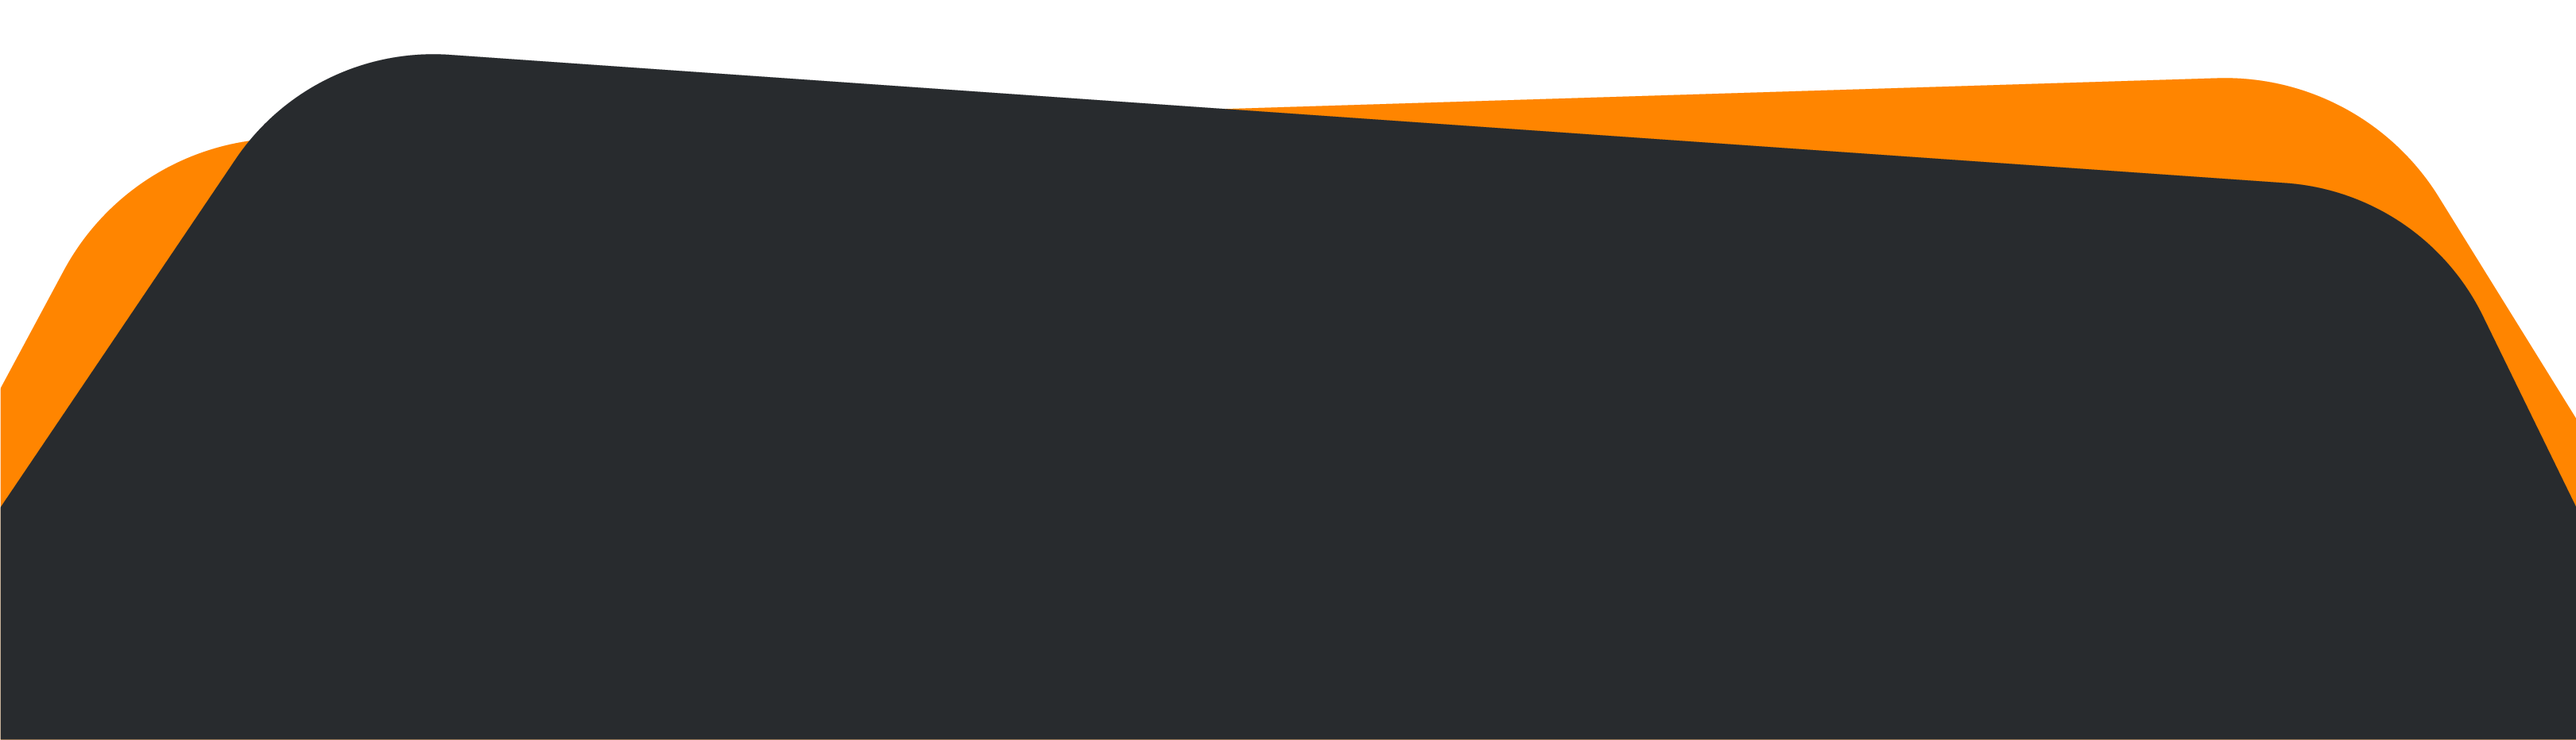
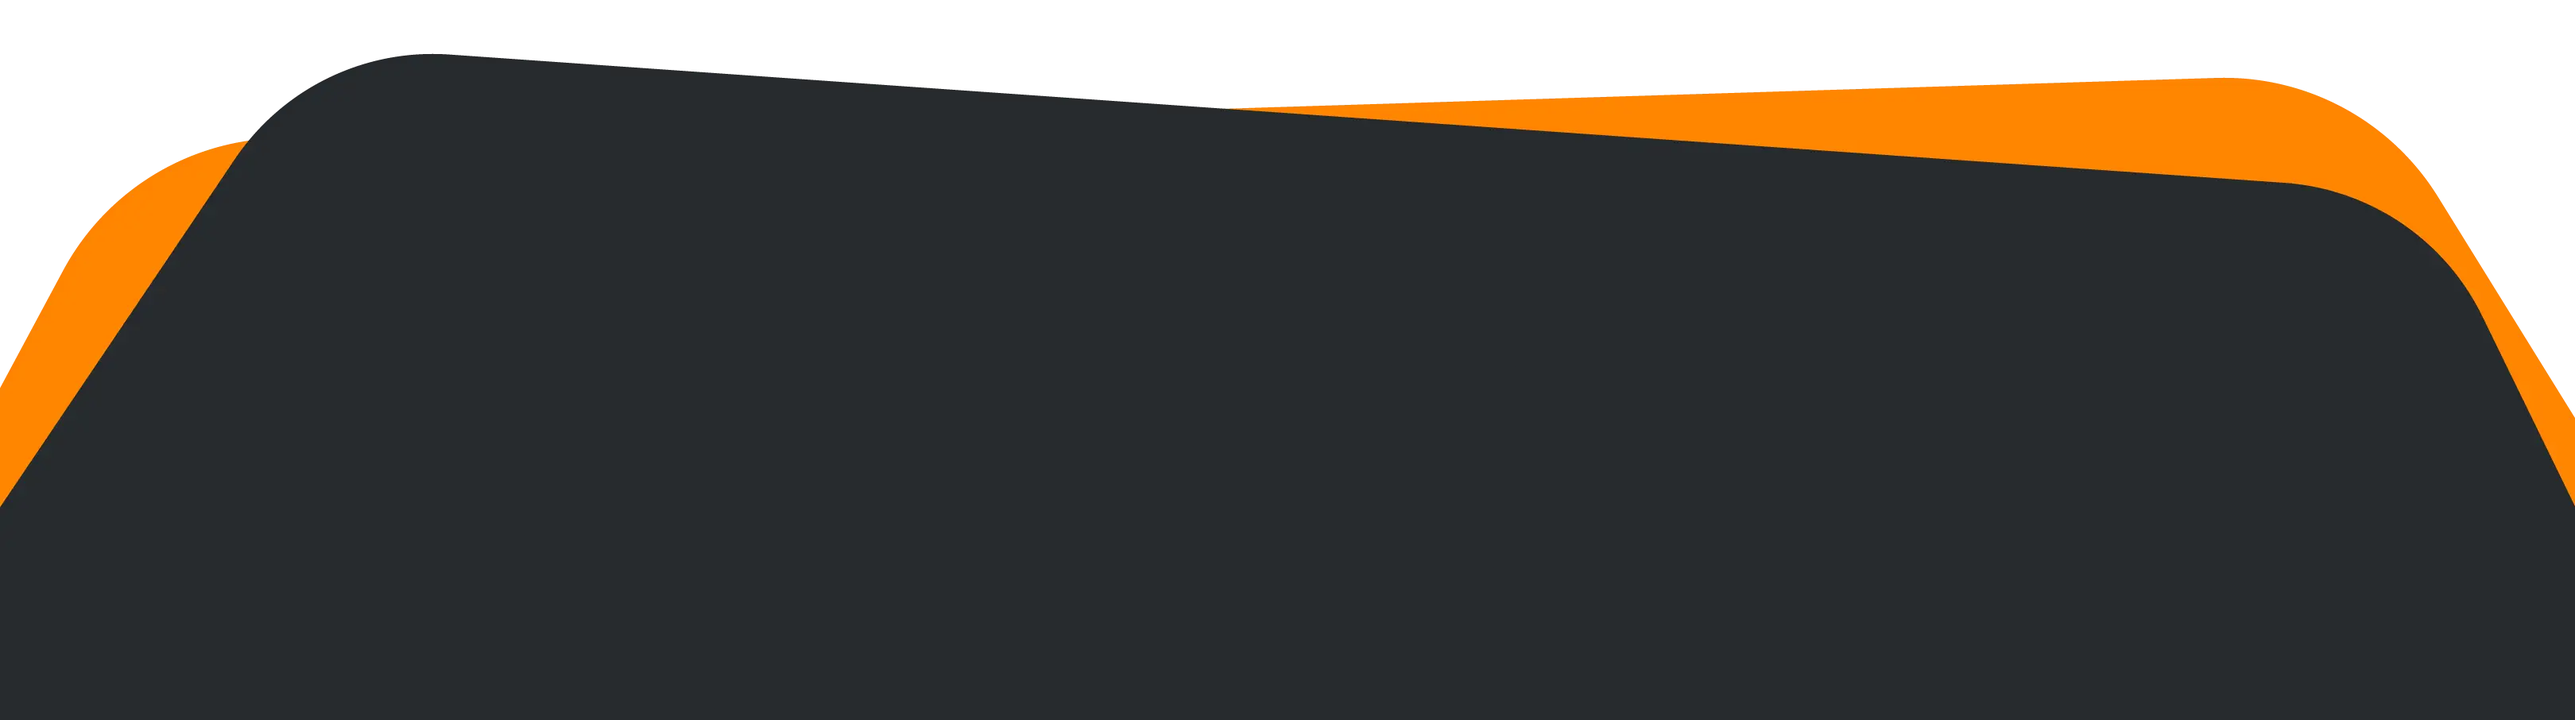
Se agregan estilos

diff --git a/styles/main.css b/styles/main.css
@@ -21,6 +21,16 @@ body {
 	border-radius: 8px;
 }
 
+.separator{
+  content: '';
+  width: 100%;
+  height: 1px;
+
+  margin: 1rem 0;
+  
+  background: var(--color-orange);
+}
+
 /* Inicio de estilos para el header */
 
 /* -------------------------------- */
@@ -61,6 +71,11 @@ body {
 	font-weight: 600;
 	text-align: center;
 	cursor: pointer;
+  transition: all 0.3s ease-in-out;
+}
+
+.header .topbar .topbar__button:hover{
+  opacity: .6;
 }
 
 /* -------------------------------- */
@@ -313,6 +328,7 @@ body {
 	border-radius: 12px;
 	padding: 8px 24px;
 
+  cursor: pointer;
 	transition: all 0.3s ease-in-out;
 }
 
@@ -359,11 +375,12 @@ body {
 	position: relative;
 
 	width: 100%;
-	height: 750px;
+	height: fit-content;
 
 	display: flex;
 	justify-content: center;
   
+  margin: 10rem 0;
 }
 
 .partner::before {
@@ -419,7 +436,7 @@ body {
 .partner .partner__content .partner__section--cards {
 	width: 70%;
 
-	margin: 5rem auto;
+	margin: 4rem auto;
 
 	display: flex;
 	flex-direction: row;
@@ -492,4 +509,187 @@ body {
   place-content: center;
 
   font-size: 1rem;
+}
+
+/* -------------------------------- */
+
+/* Inicio de la sección associate */
+
+.associate{
+  position: relative;
+
+  width: 100%;
+  height: fit-content;
+
+  display: flex;
+  flex-direction: column;
+  align-items: center;
+  text-align: center;
+
+  margin: 10rem 0;
+}
+
+.associate::before {
+	content: '';
+	position: absolute;
+
+	top: -10rem;
+	right: -14rem;
+
+	width: 22rem;
+	height: 22rem;
+
+	background: url('../assets/images/ELEMENTO6Reduced.webp') no-repeat
+		top/cover;
+
+	z-index: -1;
+}
+
+.associate .associate__content{
+  width: 90%;
+  height: 500px;
+  height: fit-content;
+
+  display: flex;
+  flex-direction: column;
+  align-items: center;
+  row-gap: 2rem;
+}
+
+.associate .associate__section{
+  display: flex;
+  flex-direction: column;
+  align-items: center;
+  row-gap: 1rem;
+}
+
+.associate .associate__title{
+  font-size: 2.5rem;
+	color: transparent;
+
+	background: rgb(130, 137, 147);
+	background: linear-gradient(
+		0deg,
+		rgba(130, 137, 147, 1) 9%,
+		rgba(255, 255, 255, 1) 100%
+	);
+
+	background-clip: text;
+}
+
+.associate .associate__section--cards{
+  flex-direction: row;
+  align-items: start;
+
+  column-gap: 3rem;
+}
+
+.associate .associate__item{
+  width: 100%;
+  
+  background: #ffffff;
+  
+  display: flex;
+  flex-direction: column;
+  text-align: left;
+  
+  padding: 32px 24px;
+  border: 1px solid var(--color-background-primary);
+  border-radius: 8px;
+
+  -webkit-box-shadow: 0px 0px 10px 0px var(--color-background-primary);
+	-moz-box-shadow: 0px 0px 10px 0px var(--color-background-primary);
+	box-shadow: 0px 0px 10px 0px var(--color-background-primary);
+}
+
+.associate .associate__info .associate__info__title{
+  font-size: 1.5rem;
+  font-weight: 450;
+
+  color: var(--color-orange);
+
+  margin-bottom: 1rem;
+}
+
+.associate .associate__item .associate__benefits{
+  display: flex;
+  flex-direction: column;
+  row-gap: 1rem;
+}
+
+.associate .associate__item .associate__benefits .associate__benefit{
+  display: flex;
+  flex-direction: row;
+  align-items: center;
+  column-gap: .5rem;
+}
+
+.associate .associate__item .associate__benefits .associate__benefit i{
+  font-size: 1.2rem;
+  color: var(--color-orange);
+}
+
+.associate .associate__item .associate__button{
+  display: flex;
+  flex-direction: row;
+  align-items: center;
+  justify-content: space-between;
+  column-gap: 1rem;
+}
+
+.associate .associate__item .associate__button .associate__button--text{
+  font-size: 1.2rem;
+  font-weight: 450;
+}
+
+.associate .associate__item .associate__button .associate__button--span{
+  font-size: .9rem;
+  font-weight: normal;
+
+  color: var(--text-secondary);
+}
+
+.associate .associate__item .associate__button button{
+  background-color: var(--color-orange);
+
+  cursor: pointer;
+	color: var(--text-white);
+	font-weight: 600;
+
+	border: 2px solid transparent;
+	border-radius: 12px;
+	padding: 8px 24px;
+  transition: all 0.3s ease-in-out;
+}
+
+.associate .associate__item .associate__button button:hover{
+  color: var(--color-orange);
+  background-color: transparent;
+  border: 2px solid var(--color-orange);
+}
+
+/* -------------------------------- */
+
+/* Inicio parte de steps */
+
+.steps .steps__image--reverse{
+  position: relative;
+  top: -2px;
+
+  transform: rotate(180deg);
+}
+
+.steps .steps__section{
+  width: 100%;
+  height: 700px;
+  background: var(--color-background-secondary);
+
+  display: flex;
+  flex-direction: column;
+  text-align: center;
+}
+
+.steps__section .steps__title{
+  font-size: 1.5rem;
+  color: var(--text-white);
 }

diff --git a/styles/responsive.css b/styles/responsive.css
@@ -1,5 +1,13 @@
 /* Media querys */
 
+@media screen and (max-width: 1280px) {
+  /* Partner */
+
+  .partner .partner__content .partner__section .partner__item{
+    min-width: 280px;
+  }
+}
+
 @media screen and (max-width: 1024px) {
 
   /* Nav */
@@ -50,11 +58,23 @@
 
   /* Partner */
 
+  .partner{
+    margin-top: 3rem;
+  }
+
   .partner::before{
     top: -5rem;
     left: -13rem;
     width: 19rem;
     height: 19rem;
+  }
+
+  .partner .partner__content .partner__section--cards{
+    flex-direction: column;
+
+    width: 300px;
+
+    row-gap: 2rem;
   }
 }
 
@@ -132,14 +152,63 @@
 
   /* Partner */
 
+  .partner{
+    margin-bottom: 3rem;
+  }
+
   .partner::before{
     top: -5rem;
+    left: -16rem;
     width: 19rem;
     height: 19rem;
   }
 
   .partner .partner__content .partner__section .partner__title {
     font-size: 2rem;
+  }
+  
+  .partner .partner__content .partner__section--cards {
+    flex-direction: column;
+    row-gap: 2rem;
+  }
+
+  .partner .partner__content .partner__section .partner__item {
+    min-width: 250px;
+  }
+
+  .partner .partner__content .partner__section .partner__item .partner__info .partner__info__title{
+    font-size: 1.2rem;
+  }
+
+  /* Sección de Associate */
+
+  .associate{
+    margin-top: 0;
+    margin-bottom: 3rem;
+  }
+  
+  .associate::before{
+    top: -5rem;
+    right: -16rem;
+    width: 19rem;
+    height: 19rem;
+  }
+  
+  .associate .associate__title{
+    font-size: 2rem;
+  }
+
+  .associate .associate__section--cards{
+    flex-direction: column;
+  }
+
+  .associate .associate__item .associate__button .associate__button--text{
+    width: 35%;
+    font-size: 1rem;
+  }
+
+  .associate .associate__item .associate__button button{
+    font-size: .9rem;
   }
 }
 

diff --git a/styles/variables.css b/styles/variables.css
@@ -11,7 +11,7 @@
   --text-white: #FFFFFF;
 
   --color-background-primary: #EFEFEF;
-  --color-background-secondary: #222935;
+  --color-background-secondary: #282b2e;
 
   /* ------------------ */
 }
